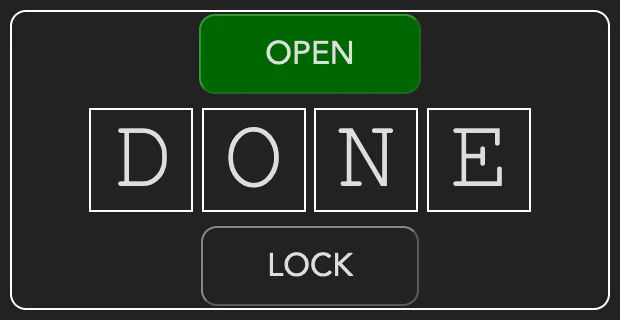
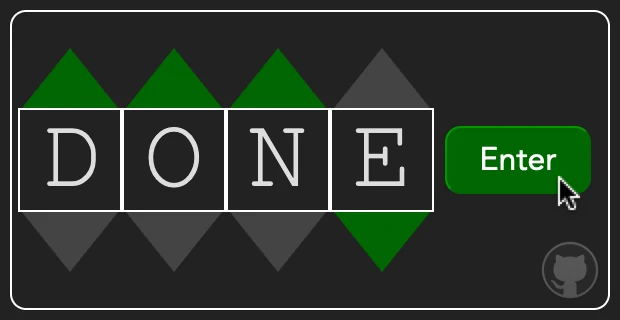
Add demo of linear vs step-end; add lock intro

Changed region(s): [[0.0306, 0.0312, 0.9806, 0.9375], [0.8581, 0.75, 0.9806, 0.9375], [0.3371, 0.9375, 0.6742, 0.9688]]

diff --git a/README.md b/README.md
@@ -29,7 +29,7 @@ Before you start, you can play a little with the CSS-only activities below. Ask 
 - Really!? I can use _counters_ to animate emojis? How soon can I use that in a project?
 - How does a counter know where the mouse is?
 
-If you start with questions, each time you find an answer, you get a little buzz of satisfaction.
+If you start with questions, each time you find an answer, you get a little buzz of satisfaction. It's like with jokes. If you hear the punchline first, you might think "When am I ever going to need an answer like this?" If you hear the build-up first, the punchline becomes something you want to share with your friends.
 
 These are not all complete games or puzzles. You can think of them as illustrations of the concepts that you will be reading more about below.
 
@@ -49,7 +49,7 @@ You might also have other questions, like:
 - How do I ensure that whichever button the player clicks last behaves differently from the others?
 - Must I solve the word game to find a link to the repo?
 
- Keep these questions in mind. You'll find answers to them in forthcoming tutorials... unless you can work out the answers for yourself first : )
+Keep these questions in mind. You'll find answers to them in forthcoming tutorials... unless you can create good ~~punchlines~~ answers for yourself first : )
 
 ### What I expect you to know already
 
@@ -1010,6 +1010,23 @@ With the `step-end` timing function, you should see an abrupt change to the next
 >
 >If you give your brain the chance to compare and contrast ideas, your brain will pay more attention.
 
+Here's an demonstration of the timing of changes of a different discrete animatable CSS property: `z-index`:
+[![animation-timing-function](images/timing.webp)](https://MERNCraft.github.io/timing)
+This demonstration uses the following `@keyframes` animation:
+```css
+@keyframes z-left {
+  0%  { z-index: 0; left:  0px; }
+  10% { z-index: 1; left:  0px; }
+  30% { z-index: 2; left:  50px; }
+  50% { z-index: 3; left: 100px; }
+  70% { z-index: 4; left: 150px; }
+  90% { z-index: 5; left: 200px; }
+ 100% { z-index: 5; left: 200px; }
+}
+```
+When you select `step-end` as the `animation-timing-function` for this animation, the integer steps for `z-index` coincide with the step-wise change of the `left` property for the grey square. When you select `linear` as the `animation-timing-function`, the value of `left` changes at a steady pace between keyframes. The change in `z-index` occurs when the grey square is halfway between two keyframe positions.
+
+You can find a list of all animatable CSS properties [here](https://www.quackit.com/css/css3/animations/animatable_properties/). Most properties have an animation associated with them, and code that you can copy and paste.
 ### Starting an animation
 
 For now, to restart the animation, you have to click on the link to reload the page. Reloading the page will reset everything in your game, so you only want to do this if the player wants to start over from the beginning.
@@ -1418,7 +1435,13 @@ Also, if the text wraps, then the line break will not occur between the number a
 
 ### Animating a counter-style
 
+Now you are ready to combine animating a counter and using a custom `@counter-style` at-rule. Here's a little puzzle where the challenge is not finding the combination of letters that opens the lock, but finding the order in which you need to change the letters. If you get the right word but don't get the right order, the CSS equivalent of an alarm goes off when you press Enter.
 
+But you should know a little about me by now. I do like words to be spelt correctly, and to move the shortest distance between points. Of the 24 possible orders in which you can change each letter only once, only one meets my high standards.
+
+[![lock](images/lock.webp)](https://MERNCraft.github.io/lock)
+
+This article is about counters, so I won't show you how to create the entire puzzle. I'll just show you how to animate the way the letters change. I'll get you to make a much simpler activity that uses this technique. If want to see how the order-of-execution logic was done, you can check out the GitHub repository.
 ### Using an animation to cycle a list smoothly
 
 ## Incrementing with `:hover`
